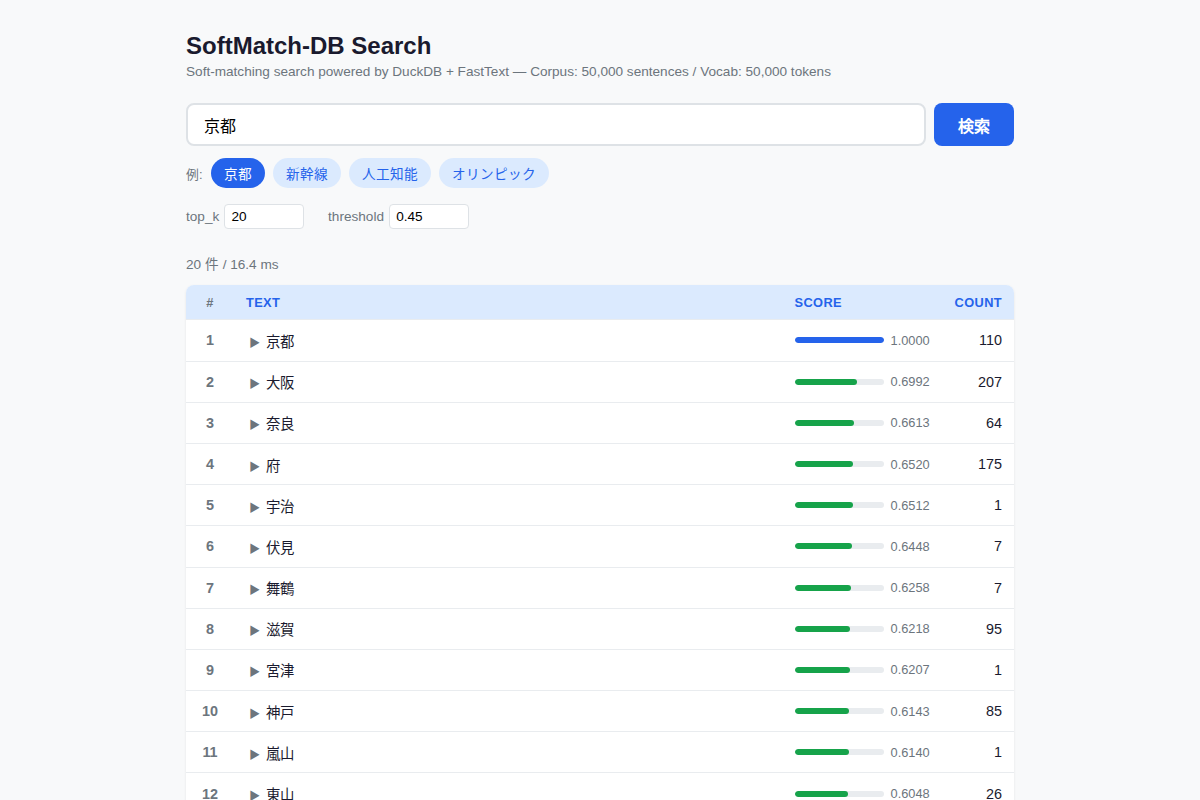
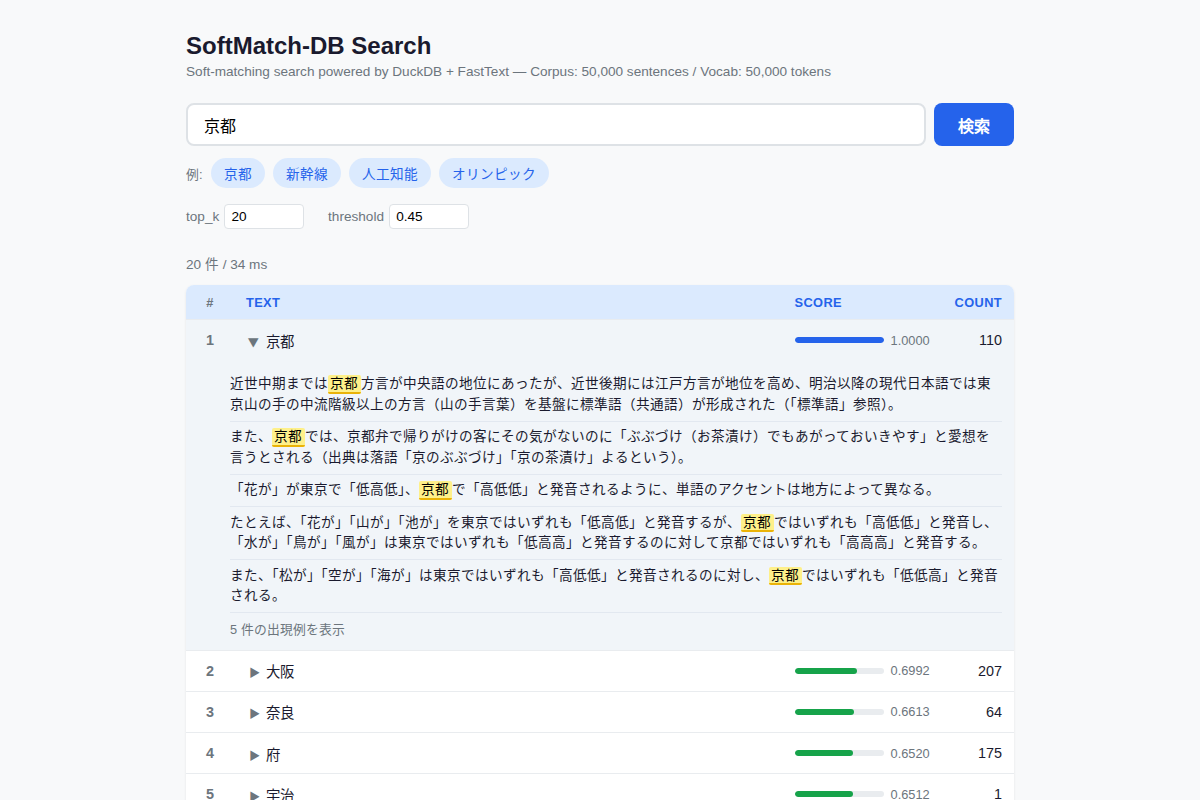
Update screenshots: showcase multi-token soft matching
Replace single-token-focused screenshots with multi-token examples
that better demonstrate the core algorithm:
- "世界遺産" (2-tok): "日本 遺産", "歴史 遺産" as soft matches
- "自然言語処理" (3-tok): cand_next filtering in action
- "プロ野球選手" (3-tok): "プロ スポーツ チーム" as semantic variant
- "京都" (1-tok): retained for single-token + KWIC example

diff --git a/docs/take_screenshots.py b/docs/take_screenshots.py
@@ -12,10 +12,47 @@ from __future__ import annotations
 import time
 from pathlib import Path
 
-from playwright.sync_api import sync_playwright
+from playwright.sync_api import Page, sync_playwright
 
 BASE_URL = "http://localhost:8000"
 OUT_DIR = Path(__file__).resolve().parent / "screenshots"
+
+
+def search_and_capture(
+    page: Page,
+    query: str,
+    filename: str,
+    expand_first: bool = False,
+    label: str = "",
+) -> None:
+    """Execute a search query and capture the screenshot.
+
+    Args:
+        page: Playwright page object.
+        query: Search query string.
+        filename: Output filename (without directory).
+        expand_first: Whether to click the first result row to expand KWIC.
+        label: Label for console output.
+    """
+    page.fill("#query", query)
+    page.click("#btn")
+    page.wait_for_function(
+        "document.querySelectorAll('tr.result-row').length > 0",
+        timeout=15000,
+    )
+    time.sleep(0.5)
+
+    if expand_first:
+        first_row = page.locator("tr.result-row").first
+        first_row.click()
+        page.wait_for_function(
+            "document.querySelector('.kwic-item') !== null",
+            timeout=10000,
+        )
+        time.sleep(0.5)
+
+    page.screenshot(path=str(OUT_DIR / filename))
+    print(f"  {label}: {filename}")
 
 
 def main() -> None:
@@ -26,53 +63,47 @@ def main() -> None:
         browser = p.chromium.launch()
         page = browser.new_page(viewport={"width": 1200, "height": 800})
 
-        # --- 1. Initial state (empty, with suggestions) ---
+        # --- 1. Initial state ---
         page.goto(BASE_URL)
         page.wait_for_load_state("networkidle")
         time.sleep(0.5)
         page.screenshot(path=str(OUT_DIR / "01_initial.png"))
-        print("1/4 Initial state captured")
+        print("  Initial state: 01_initial.png")
 
-        # --- 2. Search results for "京都" ---
-        page.click("a.chip >> text=京都")
-        page.wait_for_function(
-            "document.querySelector('table') !== null",
-            timeout=10000,
+        # --- 2. Single-token: "京都" with KWIC ---
+        search_and_capture(
+            page, "京都", "02_search_kyoto.png",
+            expand_first=True,
+            label="京都 + KWIC",
         )
-        time.sleep(0.5)
-        page.screenshot(path=str(OUT_DIR / "02_search_kyoto.png"))
-        print("2/4 Search results captured")
 
-        # --- 3. KWIC expanded for first result ---
-        first_row = page.locator("tr.result-row").first
-        first_row.click()
-        # Wait for KWIC content to load
-        page.wait_for_function(
-            "document.querySelector('.kwic-item') !== null",
-            timeout=10000,
+        # --- 3. 2-token: "世界遺産" → soft matches ---
+        search_and_capture(
+            page, "世界遺産", "03_search_world_heritage.png",
+            expand_first=True,
+            label="世界遺産 (2-tok) + KWIC",
         )
-        time.sleep(0.5)
-        page.screenshot(path=str(OUT_DIR / "03_kwic_expanded.png"))
-        print("3/4 KWIC expanded captured")
 
-        # --- 4. Search results for "人工知能" ---
-        page.fill("#query", "人工知能")
-        page.click("#btn")
-        page.wait_for_function(
-            "document.querySelectorAll('tr.result-row').length > 0",
-            timeout=10000,
+        # --- 4. 3-token: "自然言語処理" → soft matches ---
+        search_and_capture(
+            page, "自然言語処理", "04_search_nlp.png",
+            expand_first=True,
+            label="自然言語処理 (3-tok) + KWIC",
         )
-        time.sleep(0.5)
-        # Expand first KWIC
-        first_row = page.locator("tr.result-row").first
-        first_row.click()
-        page.wait_for_function(
-            "document.querySelector('.kwic-item') !== null",
-            timeout=10000,
+
+        # --- 5. 3-token: "プロ野球選手" → semantic variants ---
+        search_and_capture(
+            page, "プロ野球選手", "05_search_baseball.png",
+            expand_first=False,
+            label="プロ野球選手 (3-tok)",
         )
-        time.sleep(0.5)
-        page.screenshot(path=str(OUT_DIR / "04_search_ai.png"))
-        print("4/4 AI search + KWIC captured")
+
+        # --- 6. 2-token: "人工知能" with KWIC ---
+        search_and_capture(
+            page, "人工知能", "06_search_ai.png",
+            expand_first=True,
+            label="人工知能 (2-tok) + KWIC",
+        )
 
         browser.close()
 

diff --git a/README.md b/README.md
@@ -12,20 +12,24 @@ SoftMatcha2 は、テキストコーパス中から**意味的に類似するパ
 
 ## Screenshots
 
-### 検索結果（「京都」）
-意味的に類似する地名がスコア付きで一覧表示されます。スコアバーは青(0.8+)/緑(0.6+)/黄(0.45+) の色段階。
+### 「世界遺産」→ 「日本|遺産」「世界|文化」「歴史|遺産」がソフトマッチ（2トークン）
+クエリの各トークンが意味的に類似する別の単語に置換されたパターンを発見。KWIC でコーパス中の出現箇所をハイライト表示。
 
-![Search results for 京都](docs/screenshots/02_search_kyoto.png)
+![世界遺産 — 2-token soft matching with KWIC](docs/screenshots/03_search_world_heritage.png)
 
-### KWIC 出現例（クリックで展開）
-結果行をクリックすると、コーパス中の出現例がハイライト付きで表示されます。
+### 「自然言語処理」→ 3トークンのソフトマッチング
+3トークンクエリでは cand_next 先読みが効き、コーパスに実在するパターンのみが候補になる。
 
-![KWIC expanded view](docs/screenshots/03_kwic_expanded.png)
+![自然言語処理 — 3-token search with KWIC](docs/screenshots/04_search_nlp.png)
 
-### マルチトークン検索（「人工知能」→「人工|知能」）
-複合語は MeCab で分割され、マルチトークンのソフトマッチングが実行されます。
+### 「プロ野球選手」→ 「プロ|スポーツ|チーム」が意味的バリアントとしてヒット（3トークン）
+3トークン全てが別の単語に置換されたパターンも発見可能。スコアバーは青(0.8+)/緑(0.6+)/黄(0.45+) の色段階。
 
-![Search for 人工知能 with KWIC](docs/screenshots/04_search_ai.png)
+![プロ野球選手 — semantic variant discovery](docs/screenshots/05_search_baseball.png)
+
+### 「京都」→ 単一トークンでも関連地名を検索 + KWIC 出現例
+
+![京都 — single-token with KWIC examples](docs/screenshots/02_search_kyoto.png)
 
 ## 公式 SoftMatcha2 との関係
 
